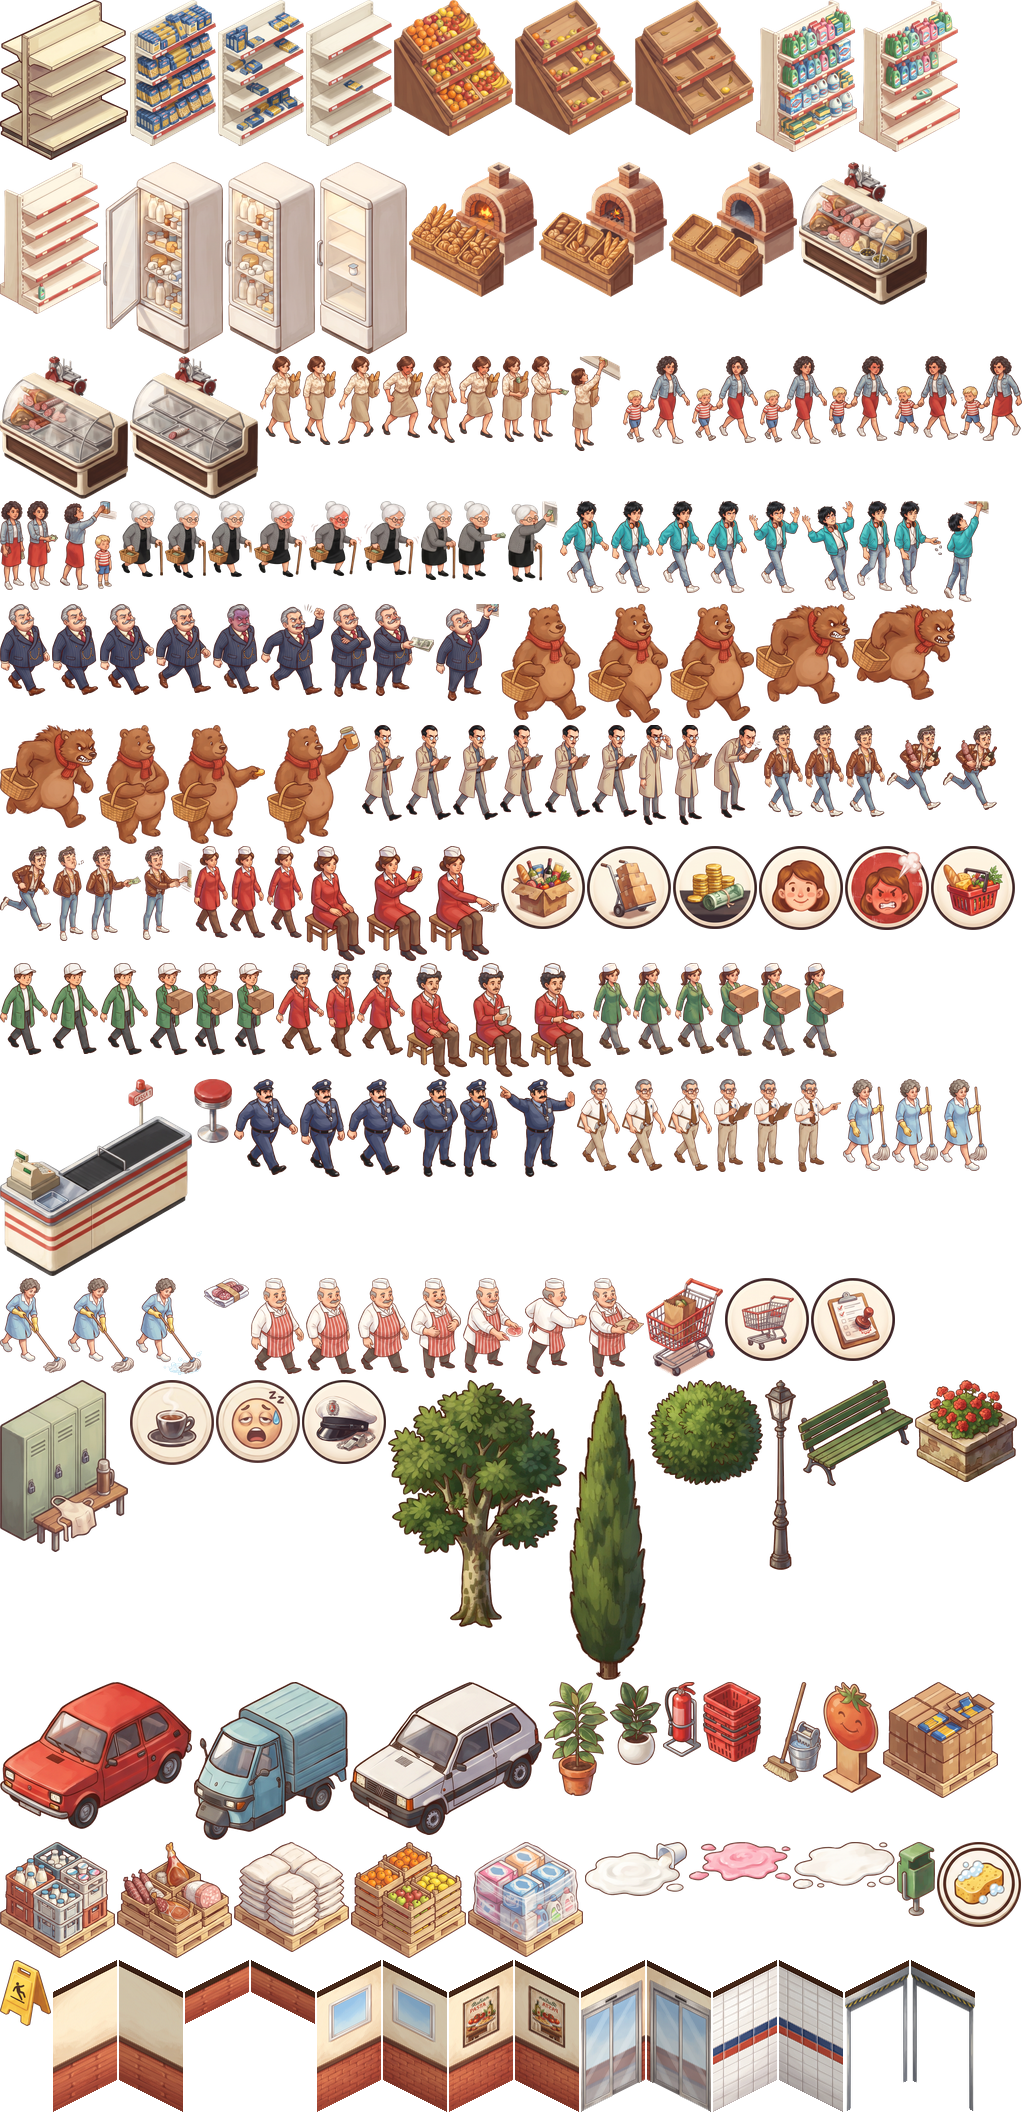
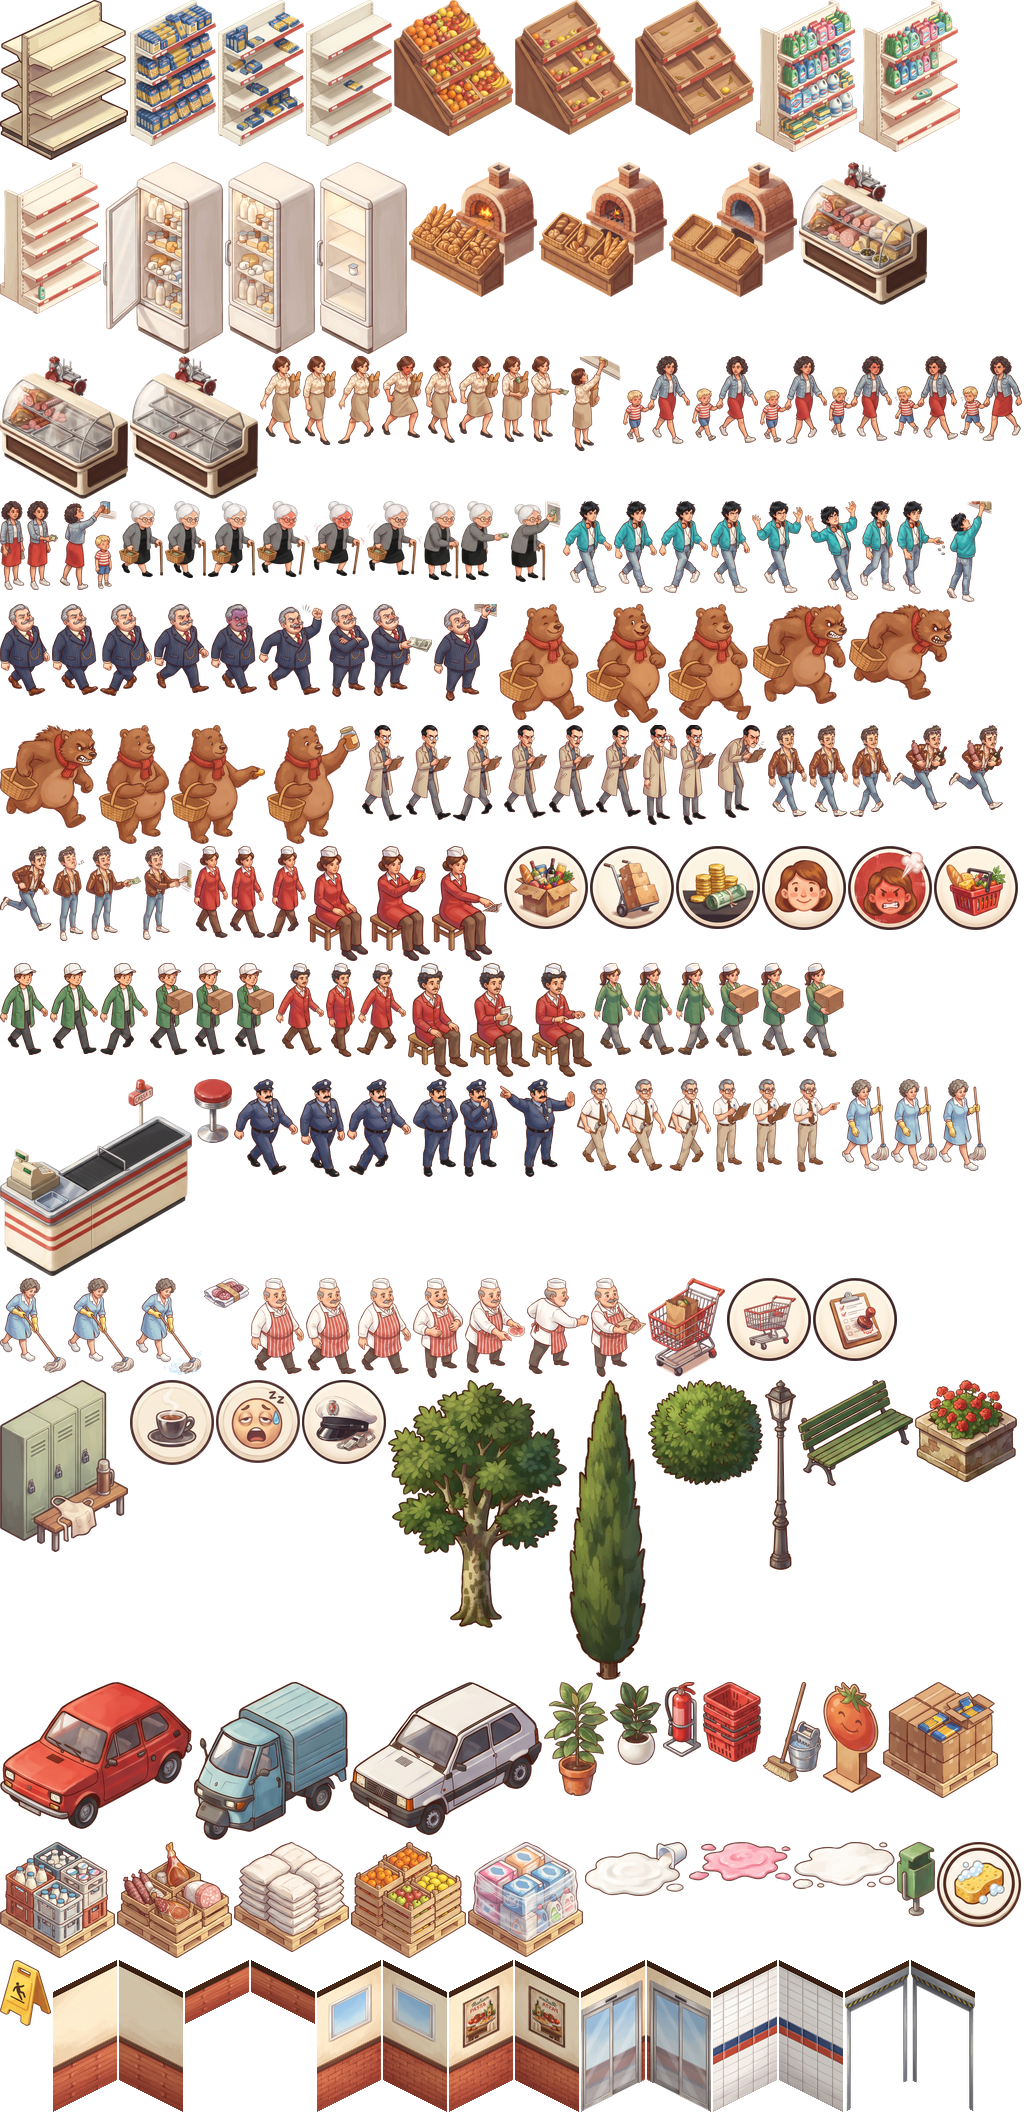
Every walker alternates legs: walk_2 mirrors walk_0's legs (playtest)
Gemini put the same leg forward in all three walk frames for almost
every character. Legs found from the soles up, or by hand where the
thighs overlap; the cleaner keeps her frames (the mop crosses her legs).

diff --git a/tools/kit.py b/tools/kit.py
@@ -15,9 +15,13 @@ RES = 2  # frames stored at 2x, drawn at 0.5 scale: sharp when zoomed in
 #             pieces (same unit, other states) take the same scale and anchor;
 #   ('h', px): the whole sheet scaled so its first piece is px tall, anchored on each cell's centre line
 #             (characters: walk frames don't jitter sideways, seated/reaching poses keep their relative size).
-# Frame rebuilt from another cell with the legs below `hem` (fraction of the cell height) mirrored around the hips:
-# the signora's three walk frames all have the right leg forward, so her walk never alternated (playtest 2026-11-27).
-SWAP_LEGS = {'signora_walk_2': (0, 0.752)}
+# Every walk_2 is rebuilt from walk_0 with the legs mirrored around the hips: the Gemini sheets put the same leg forward in
+# all three walk frames, so the walk never alternated (playtest 2026-11-27). Columns kept to the walker's own legs
+# (fractions of the cell) where a child or a cane stands beside them; the cleaner's mop crosses her legs: left as painted.
+LEG_WINDOW = {'mamma': (0.2, 0.64), 'vecchietta': (0.35, 0.74)}
+NO_LEG_SWAP = {'pulizie'}
+# Where the legs start, as a fraction of the figure's height, where thighs overlap (one run) and the automatic search stops at the knees.
+LEG_TOP = {'giovane': 0.63, 'ponzone': 0.77, 'furbetto': 0.74, 'capo': 0.62, 'mamma': 0.71, 'magazziniera': 0.66, 'orso': 0.88}
 SEATED = 1.3  # seated cashiers drawn bigger, to match the two-cell counter (playtest 2026-11-27)
 STATES = lambda b: [b, f'{b}_mezzo', f'{b}_vuoto']
 WALK = lambda n: [f'{n}_walk_0', f'{n}_walk_1', f'{n}_walk_2']
@@ -91,11 +95,26 @@ def unline(img, cols):
             if dark[x]: out[:, max(0, x - 3):x + 4] = 255
     return Image.fromarray(out.astype(np.uint8))
 
-def swap_legs(cell, hem):
-    a = np.array(cell); y = round(hem * a.shape[0])
-    xs = np.nonzero(a[y].min(1) < 235)[0]; xc = (xs.min() + xs.max()) / 2  # hips
-    legs = np.full_like(a[y:], 255); src = np.round(2 * xc - np.arange(a.shape[1])).astype(int); ok = (src >= 0) & (src < a.shape[1])
-    legs[:, ok] = a[y:, src[ok]]; a[y:] = legs
+def runs(row):
+    """(start, end) of the painted runs in a row of booleans, specks and hairline gaps ignored."""
+    out = []
+    for x in np.nonzero(row)[0]:
+        if out and x - out[-1][1] <= 3: out[-1][1] = x
+        else: out.append([x, x])
+    return [r for r in out if r[1] - r[0] >= 3]
+
+def swap_legs(cell, window=(0, 1), top=None):
+    """The legs (rows from the feet up while two runs show, i.e. up to the crotch or the hem) mirrored around their middle."""
+    a = np.array(cell); w = a.shape[1]; x0, x1 = round(window[0] * w), round(window[1] * w)
+    fg = a[:, x0:x1].min(2) < 235
+    ys = np.nonzero(fg.sum(1) > 3)[0]; y, miss = ys.max(), 0
+    while y > 0 and len(runs(fg[y])) < 2: y -= 1  # up from the soles to the first row with both legs
+    while y > 0 and miss < 3: y -= 1; miss = miss + 1 if len(runs(fg[y])) < 2 else 0
+    hem = y + miss + 1
+    if top: hem = round(ys.min() + top * (ys.max() - ys.min()))
+    r = runs(fg[hem]); xc = x0 + (r[0][0] + r[-1][1]) / 2
+    src = np.round(2 * xc - np.arange(x0, x1)).astype(int); ok = (src >= x0) & (src < x1)
+    legs = np.full_like(a[hem:, x0:x1], 255); legs[:, ok] = a[hem:, src[ok]]; a[hem:, x0:x1] = legs
     return Image.fromarray(a)
 
 def pieces():
@@ -111,7 +130,9 @@ def pieces():
             if not name: continue
             name, w = name if isinstance(name, tuple) else (name, None)  # 'w': own width; 'h': size multiplier
             cell = lambda j: img.crop(((j % cols) * cw, (j // cols) * ch, (j % cols + 1) * cw, (j // cols + 1) * ch))
-            p, left = cutout(swap_legs(cell(SWAP_LEGS[name][0]), SWAP_LEGS[name][1]) if name in SWAP_LEGS else cell(i))
+            k = name.removesuffix('_walk_2')
+            swap = k != name and k not in NO_LEG_SWAP
+            p, left = cutout(swap_legs(cell(names.index(f'{k}_walk_0')), LEG_WINDOW.get(k, (0, 1)), LEG_TOP.get(k)) if swap else cell(i))
             if kind == 'w': f = k = (w or v) * TILE_W * RES / p.width; ax = 0.5
             elif kind == 'foot':
                 if f is None:

diff --git a/docs/STATE.md b/docs/STATE.md
@@ -16,7 +16,7 @@ development (scaffold completato)
 
 ## Last action
 
-Gambe della signora (playtest): i suoi tre fotogrammi avevano tutti la gamba destra avanti; il terzo ora è il primo con le gambe specchiate sotto la gonna (`SWAP_LEGS` in `tools/kit.py`). Prima: Camminata (playtest): la mamma era disegnata rivolta a sinistra e camminava all'indietro, ora specchiata (la signora no: guarda a destra come gli altri) in `tools/kit.py` (`FACES_LEFT`); tutti i personaggi a piedi salgono a metà passo e ondeggiano da un piede all'altro (`walkBob`, `walkSway`), perché i fotogrammi Gemini delle gambe quasi non cambiano. `npm test` 130/130. Prima: Numeri dei soldi che salgono (+€ verde, −€ rosso) dove entrano o escono; tocco su un mobile per spostarlo (✓ fatto). `npm test` 128/128, browser 18/18. Prima: Milestone 26: mobili in prova prima di comprarli (tocca per spostare, 🔄 gira, ✓ compra, ✕ annulla). `npm test` 127/127, browser 18/18. Prima: Scaffali Pasta/Frutta/Detersivi ancorati al piede: dentro la loro cella (playtest). Prima: Pulsanti larghi uguali (playtest): menu, barra in basso, voci, schede Staff, Assumi/Scheda/Ordina, Licenzia/Trova. Prima: Milestone 22: livelli 4–7 (Fratelli Bonetti, Supermercato del Corso, Supermercato Primavera, Ipermercato Stella), ogni meccanica sbloccata da un solo livello, bilanciati a 8 semi; menu Campagna su due colonne in orizzontale. `npm test` 127/127, browser 18/18. Prima: Milestone 25: sei mobili rifatti (scaffali Pasta, Frutta, Detersivi, frigo, forno, banco salumi) con stato pieno / mezzo / vuoto dalla merce (≤5 mezzo). Prima, dal playtest: saracinesca nei varchi del magazzino, cassa nuova lunga due celle col registratore all'uscita, cassiere seduto più grande, alone delle icone non più tagliato. `npm test` 126/126, browser 18/18. Prima: Muri: piastrelle bianche dentro magazzino e spogliatoio, intonaco e mattoni uniformi dal lato della sala. `npm test` 124/124, browser 18/18. Prima: Muri interni solo attorno a magazzino e spogliatoio (sala e casse aperte, playtest). `npm test` 124/124, browser 18/18. Prima: Milestone 24: muri nuovi (esterni intonaco/mattoni/finestre, interni piastrelle), cassa dritta col cassiere dietro e la fila davanti, cassieri uomini e magazziniere donne (sesso dal nome), tab per mansione nel pannello Staff, vista dal vivo nella scheda. 4 fogli Gemini nuovi. `npm test` 124/124, browser 18/18. Prima: Milestone 23 dal playtest: livello 1 in un giorno (€850/45%/45) con vecchiette; muri tra stanze con varco (anche nella sim) e muretti bassi davanti; UI rifatta con palette Insegna (crema/blu/rosso/senape, disegnata in codice); scheda del lavoratore (tocca un lavoratore). Cassiera sparita non riprodotta (backlog). `npm test` 123/123, browser 18/18. Prima: Feedback playtest: icone da toccare con pulse e glow; gruppo Attrezzi tolto (pressione lunga anche sulle stanze vuote: 🗑); rotellina ⚙ in alto a destra con menu Continua / Audio / Nuova partita. `npm test` 122/122, browser 17/17. Prima: Milestone 21b: prato, strada con macchine che passano, marciapiedi con lampioni e fioriere, alberi, insegna sulla porta, decorazioni negli angoli delle stanze, piazzale e magazzino chiari (`src/render/scenery.ts`, fogli `esterno.jpg`, `interni.jpg`). `npm test` 122/122. Prima: Pressione lunga sugli arredi (✋ sposta, 🔄 gira, 🗑 togli; comando `move`), bancali dipinti in magazzino (`magazzino.jpg`). `npm test` 118/118, browser 17/17. Prima: Milestone 21: HUD a una riga con barre obiettivo, barra in basso a gruppi con icone e prezzi, guida del livello 1 con Pina e freccia, "Novità" una volta sola, canvas a devicePixelRatio. `npm test` 115/115, browser 16/16. Prima: Confronto con Theme Hospital: punti 1, 6, 7, 8 (schermo pieno, testo nitido, Pina consigliera, icone) nel milestone 21; nuovo milestone 21b atmosfera (esterno, decorazioni, muri leggibili); folla nel backlog. Prima: Milestone 20: campagna (`src/sim/levels.ts`), livelli 1–3 a negozi prestabiliti con sblocchi nella sim, menu Campagna/Negozio libero, progressi salvati, camera sulle stanze. `npm test` 112/112, browser 14/14. Prima: Milestone planning: campagna a negozi prestabiliti (ADR-0003) → milestone 20 (sistema livelli + livelli 1–3), 21 (interfaccia facile), 22 (livelli 4–7); ordine e scelte confermati dall'utente (negozi inventati, stanze fisse, Negozio libero dopo il 3). Prima: Milestone 19: ruoli guardia (becca i furbetti vicino alla cassa) e capo reparto (un tocco ogni 1,5 s: conti, macchie, scaffali, carrelli); fogli Gemini `guardia.jpg`, `capo.jpg`. Bot di bilanciamento a 8 semi: obiettivi livello 1 → €1500 / 60% / 270 serviti. `npm test` 104/104, browser 13/13. Prima: Milestone 18: energia dello staff, stanza Spogliatoio con Armadietti, pause una per ruolo, stanchi lenti senza spogliatoio; foglio Gemini `spogliatoio.jpg`. Obiettivo soldi 3500→2800. `npm test` 97/97, browser 13/13. Prima: Milestone 17: stanza Panetteria col forno (il banconiere sforna il pane a infornate, profumo che attira clienti), frigo per i Latticini; foglio Gemini `forno.jpg` 2×2. Pane 5 €. `npm test` 89/89, browser 13/13. Prima: Milestone planning: 17 forno e frigo, 18 spogliatoio e stanchezza, 19 guardia e capo reparto (ordine confermato dall'utente). Prima: Milestone 16: audio tutto sintetizzato (Web Audio + voce del telefono), muzak, effetti, annunci comici, tasto Audio. `npm test` 84/84, browser 13/13. Prima: Milestone 15: cliente furbetto (salta la fila o scappa senza pagare), tocco 👮 per beccarlo (paga, +rep), toast "Beccato!". Fogli Gemini `furbetto.jpg` 3×3 e `beccato.jpg`. `npm test` 80/80, browser 12/12. Prima: Milestone 14: carrelli abbandonati (il magazziniere li porta via, tocco 🛒), ispezione sanitaria al giorno 3 (multa per macchia o bonus). Obiettivo soldi livello 1 → €3500. `npm test` 74/74, browser 12/12. Prima: Milestone 13: stanza banco salumi, bancone con affettatrice, banconiere (quarto ruolo) con la sua fila; Salumi solo al banco. Fogli Gemini `bancone.jpg`, `banconiere.jpg`. `npm test` 69/69, browser 12/12. Prima: Milestone 12: macchie di yogurt (`src/sim/dirt.ts`), cestino, addetto pulizie (terzo ruolo), icona spugna da toccare; fogli Gemini `pulizie.jpg` e `sporco.jpg`. `npm test` 64/64, browser 12/12. Prima: Milestone planning (11 salvataggio e menu, 12 sporco e pulizie, 13 banco salumi, confermati dall'utente). Milestone 11: `src/sim/save.ts`, salvataggio automatico in localStorage, menu iniziale Continua/Nuova partita, briefing con gli obiettivi; `?manual&save` per i test browser. `npm test` 57/57, browser 12/12.
+Gambe alternate per tutti (playtest): ogni `*_walk_2` è il `*_walk_0` con le gambe specchiate sotto i fianchi (`swap_legs` in `tools/kit.py`; `LEG_TOP` a mano dove le cosce si sovrappongono, `LEG_WINDOW` per bambino e bastone, pulizie esclusa per il mocio). Prima: Gambe della signora (playtest): i suoi tre fotogrammi avevano tutti la gamba destra avanti; il terzo ora è il primo con le gambe specchiate sotto la gonna (`SWAP_LEGS` in `tools/kit.py`). Prima: Camminata (playtest): la mamma era disegnata rivolta a sinistra e camminava all'indietro, ora specchiata (la signora no: guarda a destra come gli altri) in `tools/kit.py` (`FACES_LEFT`); tutti i personaggi a piedi salgono a metà passo e ondeggiano da un piede all'altro (`walkBob`, `walkSway`), perché i fotogrammi Gemini delle gambe quasi non cambiano. `npm test` 130/130. Prima: Numeri dei soldi che salgono (+€ verde, −€ rosso) dove entrano o escono; tocco su un mobile per spostarlo (✓ fatto). `npm test` 128/128, browser 18/18. Prima: Milestone 26: mobili in prova prima di comprarli (tocca per spostare, 🔄 gira, ✓ compra, ✕ annulla). `npm test` 127/127, browser 18/18. Prima: Scaffali Pasta/Frutta/Detersivi ancorati al piede: dentro la loro cella (playtest). Prima: Pulsanti larghi uguali (playtest): menu, barra in basso, voci, schede Staff, Assumi/Scheda/Ordina, Licenzia/Trova. Prima: Milestone 22: livelli 4–7 (Fratelli Bonetti, Supermercato del Corso, Supermercato Primavera, Ipermercato Stella), ogni meccanica sbloccata da un solo livello, bilanciati a 8 semi; menu Campagna su due colonne in orizzontale. `npm test` 127/127, browser 18/18. Prima: Milestone 25: sei mobili rifatti (scaffali Pasta, Frutta, Detersivi, frigo, forno, banco salumi) con stato pieno / mezzo / vuoto dalla merce (≤5 mezzo). Prima, dal playtest: saracinesca nei varchi del magazzino, cassa nuova lunga due celle col registratore all'uscita, cassiere seduto più grande, alone delle icone non più tagliato. `npm test` 126/126, browser 18/18. Prima: Muri: piastrelle bianche dentro magazzino e spogliatoio, intonaco e mattoni uniformi dal lato della sala. `npm test` 124/124, browser 18/18. Prima: Muri interni solo attorno a magazzino e spogliatoio (sala e casse aperte, playtest). `npm test` 124/124, browser 18/18. Prima: Milestone 24: muri nuovi (esterni intonaco/mattoni/finestre, interni piastrelle), cassa dritta col cassiere dietro e la fila davanti, cassieri uomini e magazziniere donne (sesso dal nome), tab per mansione nel pannello Staff, vista dal vivo nella scheda. 4 fogli Gemini nuovi. `npm test` 124/124, browser 18/18. Prima: Milestone 23 dal playtest: livello 1 in un giorno (€850/45%/45) con vecchiette; muri tra stanze con varco (anche nella sim) e muretti bassi davanti; UI rifatta con palette Insegna (crema/blu/rosso/senape, disegnata in codice); scheda del lavoratore (tocca un lavoratore). Cassiera sparita non riprodotta (backlog). `npm test` 123/123, browser 18/18. Prima: Feedback playtest: icone da toccare con pulse e glow; gruppo Attrezzi tolto (pressione lunga anche sulle stanze vuote: 🗑); rotellina ⚙ in alto a destra con menu Continua / Audio / Nuova partita. `npm test` 122/122, browser 17/17. Prima: Milestone 21b: prato, strada con macchine che passano, marciapiedi con lampioni e fioriere, alberi, insegna sulla porta, decorazioni negli angoli delle stanze, piazzale e magazzino chiari (`src/render/scenery.ts`, fogli `esterno.jpg`, `interni.jpg`). `npm test` 122/122. Prima: Pressione lunga sugli arredi (✋ sposta, 🔄 gira, 🗑 togli; comando `move`), bancali dipinti in magazzino (`magazzino.jpg`). `npm test` 118/118, browser 17/17. Prima: Milestone 21: HUD a una riga con barre obiettivo, barra in basso a gruppi con icone e prezzi, guida del livello 1 con Pina e freccia, "Novità" una volta sola, canvas a devicePixelRatio. `npm test` 115/115, browser 16/16. Prima: Confronto con Theme Hospital: punti 1, 6, 7, 8 (schermo pieno, testo nitido, Pina consigliera, icone) nel milestone 21; nuovo milestone 21b atmosfera (esterno, decorazioni, muri leggibili); folla nel backlog. Prima: Milestone 20: campagna (`src/sim/levels.ts`), livelli 1–3 a negozi prestabiliti con sblocchi nella sim, menu Campagna/Negozio libero, progressi salvati, camera sulle stanze. `npm test` 112/112, browser 14/14. Prima: Milestone planning: campagna a negozi prestabiliti (ADR-0003) → milestone 20 (sistema livelli + livelli 1–3), 21 (interfaccia facile), 22 (livelli 4–7); ordine e scelte confermati dall'utente (negozi inventati, stanze fisse, Negozio libero dopo il 3). Prima: Milestone 19: ruoli guardia (becca i furbetti vicino alla cassa) e capo reparto (un tocco ogni 1,5 s: conti, macchie, scaffali, carrelli); fogli Gemini `guardia.jpg`, `capo.jpg`. Bot di bilanciamento a 8 semi: obiettivi livello 1 → €1500 / 60% / 270 serviti. `npm test` 104/104, browser 13/13. Prima: Milestone 18: energia dello staff, stanza Spogliatoio con Armadietti, pause una per ruolo, stanchi lenti senza spogliatoio; foglio Gemini `spogliatoio.jpg`. Obiettivo soldi 3500→2800. `npm test` 97/97, browser 13/13. Prima: Milestone 17: stanza Panetteria col forno (il banconiere sforna il pane a infornate, profumo che attira clienti), frigo per i Latticini; foglio Gemini `forno.jpg` 2×2. Pane 5 €. `npm test` 89/89, browser 13/13. Prima: Milestone planning: 17 forno e frigo, 18 spogliatoio e stanchezza, 19 guardia e capo reparto (ordine confermato dall'utente). Prima: Milestone 16: audio tutto sintetizzato (Web Audio + voce del telefono), muzak, effetti, annunci comici, tasto Audio. `npm test` 84/84, browser 13/13. Prima: Milestone 15: cliente furbetto (salta la fila o scappa senza pagare), tocco 👮 per beccarlo (paga, +rep), toast "Beccato!". Fogli Gemini `furbetto.jpg` 3×3 e `beccato.jpg`. `npm test` 80/80, browser 12/12. Prima: Milestone 14: carrelli abbandonati (il magazziniere li porta via, tocco 🛒), ispezione sanitaria al giorno 3 (multa per macchia o bonus). Obiettivo soldi livello 1 → €3500. `npm test` 74/74, browser 12/12. Prima: Milestone 13: stanza banco salumi, bancone con affettatrice, banconiere (quarto ruolo) con la sua fila; Salumi solo al banco. Fogli Gemini `bancone.jpg`, `banconiere.jpg`. `npm test` 69/69, browser 12/12. Prima: Milestone 12: macchie di yogurt (`src/sim/dirt.ts`), cestino, addetto pulizie (terzo ruolo), icona spugna da toccare; fogli Gemini `pulizie.jpg` e `sporco.jpg`. `npm test` 64/64, browser 12/12. Prima: Milestone planning (11 salvataggio e menu, 12 sporco e pulizie, 13 banco salumi, confermati dall'utente). Milestone 11: `src/sim/save.ts`, salvataggio automatico in localStorage, menu iniziale Continua/Nuova partita, briefing con gli obiettivi; `?manual&save` per i test browser. `npm test` 57/57, browser 12/12.
 
 ## Next step
 

diff --git a/docs/backlog.md b/docs/backlog.md
@@ -175,3 +175,4 @@ Promoted → `[x]` + `→ milestone NN-<slug>.md`. Rejected → `~~title~~` + `R
 - [ ] Personaggi visti di spalle quando camminano verso il fondo (in alto sullo schermo): ora mostrano sempre la faccia. Servono fogli Gemini nuovi con la vista da dietro, e fotogrammi delle gambe più diversi tra loro.
   - Source: playtest 2026-11-27
 - [x] Signora con la gamba destra sempre avanti (playtest 2026-11-27): terzo fotogramma ricostruito con le gambe specchiate (`SWAP_LEGS` in `tools/kit.py`). Altri personaggi con lo stesso difetto: da controllare al playtest.
+- [x] Stessa gamba sempre avanti anche negli altri personaggi: `walk_2` di tutti ricostruito con le gambe specchiate (`swap_legs`), tranne l'addetta alle pulizie (il mocio passa davanti alle gambe).
